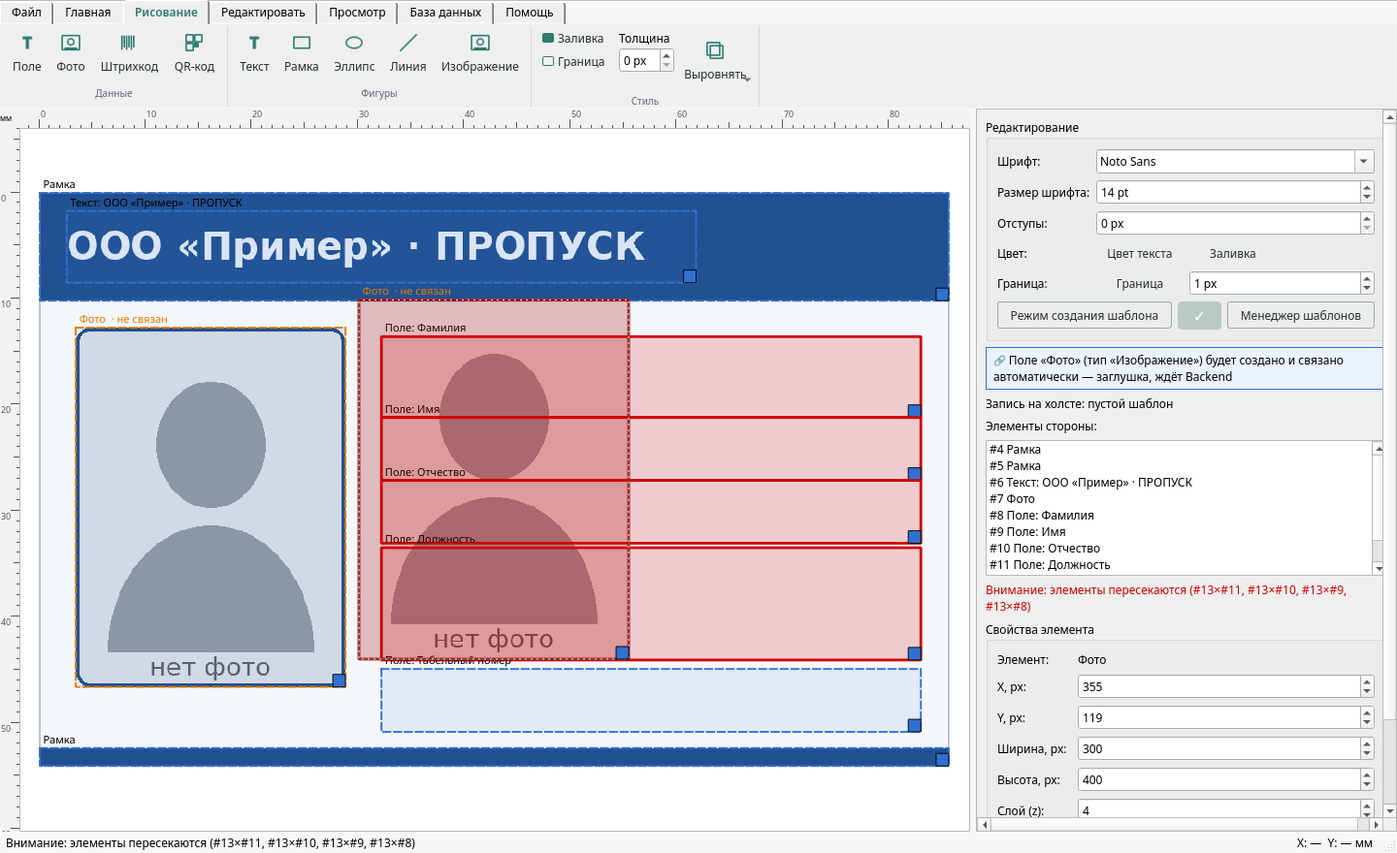
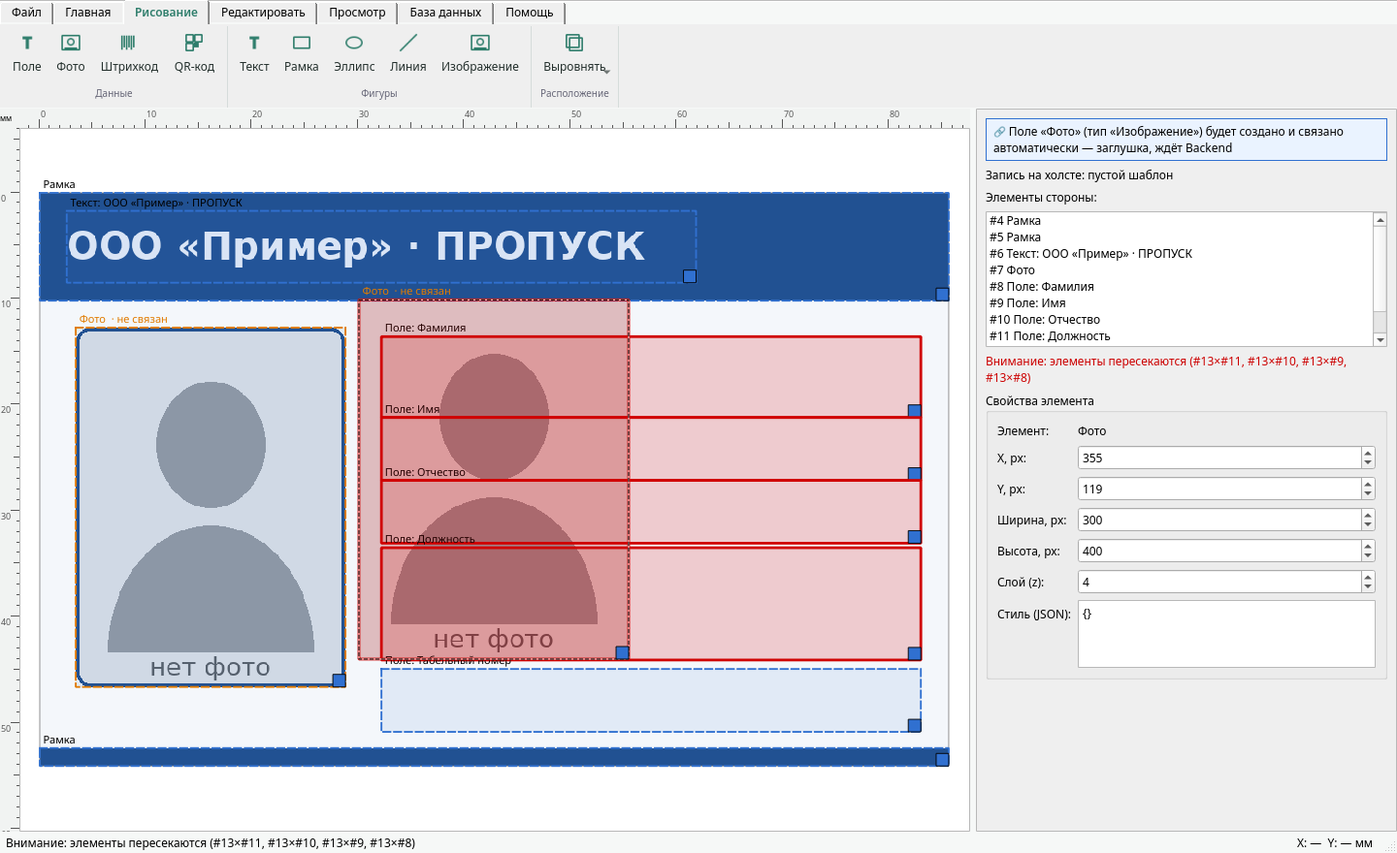
stage 15 step 2: Редактировать ribbon in one row (fits 1024 px), «Связать поле» creates object (stub), photo editor mock values into sliders, field manager status, s15 screens

diff --git a/ui/stage15.py b/ui/stage15.py
@@ -5,10 +5,8 @@
 использовались до этапа 15 (set_prop панели свойств редактора).
 """
 from PyQt6.QtCore import Qt
-from PyQt6.QtGui import QColor, QAction
-from PyQt6.QtWidgets import (QWidget, QGroupBox, QFormLayout, QHBoxLayout, QVBoxLayout, QFontComboBox, QSpinBox,
-                             QPushButton, QToolButton, QLabel, QDialog, QListWidget, QListWidgetItem, QMessageBox,
-                             QColorDialog)
+from PyQt6.QtWidgets import (QHBoxLayout, QVBoxLayout, QPushButton, QLabel, QDialog, QListWidget, QListWidgetItem,
+                             QMessageBox)
 
 UNLINKED_COLOR = "#E07A00"      # рамка объекта шаблона «не связан» (после «Отвязать поле»)
 LINKED_COLOR = "#3070d0"        # обычная рамка (как в layout_editor.ElementItem)
@@ -34,67 +32,28 @@ def _set_btn_color(b, c):
     b.color = c; b.setStyleSheet(f"QToolButton{{border:1px solid #888; border-left:14px solid {c}; padding:2px 6px;}}" if c else "")
 
 
-class FormatPanel(QGroupBox):
-    """П.2: панель «Редактирование» — шрифт, размер, отступы, цвет текста, заливка, цвет/толщина границы;
-    «Режим шаблона» (ручная расстановка элементов), «✓» — сохранить шаблон, «Менеджер шаблонов»."""
+class TemplateTools:
+    """П.2: «Режим шаблона» / «✓ Сохранить шаблон» / «Менеджер шаблонов» — слоты QAction ленты «Редактировать»."""
 
-    def __init__(self, editor=None, parent=None):
-        super().__init__("Редактирование", parent); self.editor = editor
-        self.font = QFontComboBox(); self.font.setToolTip("TODO stage15: ключ стиля font_family — ждёт Backend (рендер)")
-        self.size = QSpinBox(); self.size.setRange(4, 200); self.size.setValue(14); self.size.setSuffix(" pt")
-        self.padding = QSpinBox(); self.padding.setRange(0, 200); self.padding.setSuffix(" px")
-        self.padding.setToolTip("TODO stage15: ключ стиля padding — ждёт Backend (рендер)")
-        self.text_color, self.fill, self.border = _color_btn("Цвет текста"), _color_btn("Заливка"), _color_btn("Граница")
-        self.border_w = QSpinBox(); self.border_w.setRange(0, 100); self.border_w.setValue(1); self.border_w.setSuffix(" px")
-        f = QFormLayout(); f.addRow("Шрифт:", self.font); f.addRow("Размер шрифта:", self.size); f.addRow("Отступы:", self.padding)
-        colors = QHBoxLayout(); [colors.addWidget(b) for b in (self.text_color, self.fill)]
-        f.addRow("Цвет:", colors)
-        brow = QHBoxLayout(); brow.addWidget(self.border); brow.addWidget(self.border_w); f.addRow("Граница:", brow)
-        # кнопки панели — QToolButton на собственных QAction (правило: одно действие = один QAction, одно место)
-        self.act_mode = QAction("Режим создания шаблона", self); self.act_mode.setObjectName("act_template_mode"); self.act_mode.setCheckable(True)
-        self.act_save = QAction("✓", self); self.act_save.setObjectName("act_template_save"); self.act_save.setToolTip("Сохранить шаблон")
-        self.act_manager = QAction("Менеджер шаблонов", self); self.act_manager.setObjectName("act_template_manager")
-        self.b_mode, self.b_save, self.b_manager = (QToolButton() for _ in range(3))
-        for b, a in ((self.b_mode, self.act_mode), (self.b_save, self.act_save), (self.b_manager, self.act_manager)):
-            b.setDefaultAction(a); b.setToolButtonStyle(Qt.ToolButtonStyle.ToolButtonTextOnly)
-        self.b_mode.setStyleSheet("QToolButton{border:1px solid #9AA; border-radius:3px; padding:3px 8px;} QToolButton:checked{background:#2E7D6B; color:white;}")
-        self.b_manager.setStyleSheet("QToolButton{border:1px solid #9AA; border-radius:3px; padding:3px 8px;}")
-        self.b_save.setStyleSheet("QToolButton{font-size:16px; font-weight:bold; color:white; background:#2E7D6B;"
-                                  " border-radius:4px; padding:2px 10px;} QToolButton:disabled{background:#B9C9C4;}")
-        row = QHBoxLayout(); row.addWidget(self.b_mode, 1); row.addWidget(self.b_save); row.addWidget(self.b_manager)
-        self.mode_hint = QLabel("Режим шаблона: расставьте элементы на карточке вручную и выберите поля; сохранение — «✓».")
-        self.mode_hint.setWordWrap(True); self.mode_hint.setStyleSheet("color:#2E7D6B; font-weight:600;")
-        lay = QVBoxLayout(self); lay.addLayout(f); lay.addLayout(row); lay.addWidget(self.mode_hint)
-        self.set_template_mode(False)
-        self.act_mode.toggled.connect(self.set_template_mode)
-        self.act_save.triggered.connect(lambda *_: self.save_template()); self.act_manager.triggered.connect(lambda *_: self.open_manager())
-        for b, key in ((self.text_color, "color"), (self.fill, "fill"), (self.border, "stroke")):
-            b.clicked.connect(lambda _=False, b=b, key=key: self.pick(b, key))
-        self.size.valueChanged.connect(lambda v: self._apply("font_size", v))
-        self.border_w.valueChanged.connect(lambda v: self._apply("stroke_width", v))
+    def __init__(self, parent, editor=None):
+        self.parent, self.editor, self.template_mode, self.act_mode, self.act_save = parent, editor, False, None, None
 
-    def _apply(self, key, value):
-        """Применение через существующий путь панели свойств редактора (set_prop); без нового API."""
-        ed = self.editor
-        if ed is None or ed.current is None: return False
-        if key == "font_size": ed.p_font.setValue(int(value)); return ed.apply_props()
-        return ed.set_prop(key, value)
-
-    def pick(self, b, key, color=None):
-        c = color or QColorDialog.getColor(QColor(b.color or "#000000"), self, b.text()).name()
-        _set_btn_color(b, c); self._apply(key, c); return c
+    def bind(self, act_mode, act_save):
+        self.act_mode, self.act_save = act_mode, act_save; self.set_template_mode(False)
 
     def set_template_mode(self, on):
-        self.template_mode = bool(on); self.act_save.setEnabled(self.template_mode); self.mode_hint.setVisible(self.template_mode)
-        if self.act_mode.isChecked() != self.template_mode: self.act_mode.setChecked(self.template_mode)
-        if self.editor is not None and hasattr(self.editor, "set_template_mode_banner"): self.editor.set_template_mode_banner(self.template_mode)
+        self.template_mode = bool(on)
+        pass  # «Сохранить шаблон» всегда доступна (контракт self-test: все действия ленты доступны)
+        if self.act_mode is not None and self.act_mode.isChecked() != self.template_mode: self.act_mode.setChecked(self.template_mode)
+        if self.editor is not None: self.editor.set_template_mode_banner(self.template_mode)
+        return self.template_mode
 
     def save_template(self):
         # TODO stage15: сохранение шаблона — Backend (save_template / templates) ещё нет
-        return stub_message(self, "Сохранить шаблон", STUB)
+        return stub_message(self.parent, "Сохранить шаблон", STUB)
 
     def open_manager(self, exec_=True):
-        d = TemplateManagerDialog(self)
+        d = TemplateManagerDialog(self.parent)
         if exec_: d.exec()
         return d
 

diff --git a/ui/main_window.py b/ui/main_window.py
@@ -12,6 +12,7 @@ from .layout_editor import LayoutEditor
 from .main_view import (PreviewPanel, PrintQueueDialog, PositionDialog, SettingsDialog, FieldManager, ALIGN,
                         aligned_geometry)
 from .ribbon import Ribbon, glyph
+from . import stage15
 from .dialogs import ImportDialog, ExportDialog, confirm_missing_photos, run_snapshot_job, describe_result, show_result_warnings
 from .backend_api import print_snapshot
 
@@ -65,6 +66,24 @@ class StrokeWidthAction(QWidgetAction):
 
     @property
     def spin(self): return self.spins[0]
+
+
+class FieldWidgetAction(QWidgetAction):
+    """Этап 15: поле ленты «Редактировать» (шрифт / размер / отступы): подпись + виджет, создаётся для каждого контейнера."""
+
+    def __init__(self, parent, name, text, factory, on_change, tip=None):
+        super().__init__(parent); self.setObjectName(name); self.setText(text)
+        self.factory, self.on_change, self.tip, self.widgets = factory, on_change, tip, []
+
+    def createWidget(self, parent):
+        w = QWidget(parent); h = QVBoxLayout(w); h.setContentsMargins(2, 4, 2, 0); h.setSpacing(1)
+        e = self.factory(); e.setToolTip(self.tip or self.text()); self.on_change(e)
+        h.addWidget(QLabel(self.text())); h.addWidget(e); h.addStretch(1)
+        self.widgets.append(e); w.destroyed.connect(lambda *_, e=e: self.widgets.remove(e) if e in self.widgets else None)
+        return w
+
+    @property
+    def widget(self): return self.widgets[0]
 
 
 class MainWindow(QMainWindow):
@@ -160,7 +179,27 @@ class MainWindow(QMainWindow):
             sub = QAction(t, self); sub.setObjectName(f"act_align_{how}"); sub.triggered.connect(lambda _=False, h=how: self.align(h))
             self.align_menu.addAction(sub); self.align_actions[how] = sub
         self.act_align.setMenu(self.align_menu)
-        # Редактировать
+        # Редактировать — этап 15: форматирование и шаблон в одну горизонтальную строку групп
+        from PyQt6.QtWidgets import QFontComboBox
+        def _font():
+            f = QFontComboBox(); f.setMaximumWidth(150); return f
+        def _spin(lo, hi, v, suf):
+            def mk():
+                sp = QSpinBox(); sp.setRange(lo, hi); sp.setValue(v); sp.setSuffix(suf); return sp
+            return mk
+        # TODO stage15: font_family / padding — ключей стиля пока нет в рендере Backend (только UI)
+        self.act_font = FieldWidgetAction(self, "act_font", "Шрифт", _font, lambda e: None, "Шрифт (TODO stage15: ждёт Backend)")
+        self.act_font_size = FieldWidgetAction(self, "act_font_size", "Размер", _spin(4, 200, 14, " pt"),
+            lambda e: e.editingFinished.connect(lambda e=e: le.current and (le.p_font.setValue(e.value()), le.apply_props())))
+        self.act_padding = FieldWidgetAction(self, "act_padding", "Отступы", _spin(0, 200, 0, " px"), lambda e: None,
+                                             "Отступы (TODO stage15: ждёт Backend)")
+        self.act_text_color = A("act_text_color", "Цвет текста…", lambda: self.pick_color("color"), "text", icon_text="Цвет\nтекста")
+        fp = stage15.TemplateTools(self, le)
+        self.act_template_mode = A("act_template_mode", "Режим шаблона", fp.set_template_mode, "edit_card", checkable=True,
+                                   icon_text="Режим\nшаблона", tip="Режим создания шаблона: элементы расставляются вручную")
+        self.act_template_save = A("act_template_save", "✓ Сохранить шаблон", fp.save_template, "printed", icon_text="✓ Сохранить\nшаблон")
+        self.act_template_manager = A("act_template_manager", "Менеджер шаблонов…", fp.open_manager, "table", icon_text="Менеджер\nшаблонов")
+        fp.bind(self.act_template_mode, self.act_template_save); self.template_tools = fp
         self.act_undo = A("act_undo", "Отменить", self.undo, "undo", "Ctrl+Z")
         self.act_redo = A("act_redo", "Повторить", self.redo, "redo", ["Ctrl+Y", "Ctrl+Shift+Z"])
         self.act_delete_element = A("act_delete_element", "Удалить объект", self.delete_element, "delete", "Del", icon_text="Удалить")
@@ -227,10 +266,14 @@ class MainWindow(QMainWindow):
         R.add_group("Главная", "Сторона", [self.act_side, self.act_background])
         R.add_group("Рисование", "Данные", [T["field"], T["photo"], T["barcode"], T["qr"]])
         R.add_group("Рисование", "Фигуры", [T["text"], T["rect"], T["ellipse"], T["line"], T["image"]])
-        R.add_group("Рисование", "Стиль", [[self.act_style_fill, self.act_style_stroke], self.act_style_stroke_w, self.act_align])
-        R.add_group("Редактировать", "История", [self.act_undo, self.act_redo])
-        R.add_group("Редактировать", "Объект", [self.act_delete_element, self.act_position])
-        R.add_group("Редактировать", "Порядок", [self.act_z_up, self.act_z_down])
+        R.add_group("Рисование", "Расположение", [self.act_align])
+        R.add_group("Редактировать", "Шрифт", [self.act_font, self.act_font_size])
+        R.add_group("Редактировать", "Отступы", [self.act_padding])
+        R.add_group("Редактировать", "Цвет", [[self.act_text_color, self.act_style_fill]])
+        R.add_group("Редактировать", "Граница", [self.act_style_stroke, self.act_style_stroke_w])
+        R.add_group("Редактировать", "Шаблон", [[self.act_template_mode, self.act_template_save, self.act_template_manager]])
+        R.add_group("Редактировать", "История", [[self.act_undo, self.act_redo]])
+        R.add_group("Редактировать", "Объект", [[self.act_delete_element, self.act_position], [self.act_z_up, self.act_z_down]])  # порядок слоёв — в группе «Объект» (вписывается в 1024 px)
         R.add_group("Просмотр", "Масштаб", [self.act_zoom_in, self.act_zoom_out, self.act_zoom_fit])
         R.add_group("Просмотр", "Показать", [self.act_grid, self.act_rulers, self.act_show_render])
         R.add_group("Просмотр", "Окно", [self.act_reset_layout])

diff --git a/ui/photo_editor.py b/ui/photo_editor.py
@@ -115,14 +115,12 @@ class PhotoEditor(QDialog):
         except LookupError as e: self.src, self.load_error = None, str(e)
         except ValueError as e: self.src, self.load_error = None, f"Не удалось открыть фото: {e}"
         self.img = self.src
-        grid = QGridLayout(); self.sl, self.sp, self.applied_labels, self.applied = {}, {}, {}, {}
+        grid = QGridLayout(); self.sl, self.sp = {}, {}
         for i, (k, lab, lo, hi, suf) in enumerate(self.SLIDERS):
             s = QSlider(Qt.Orientation.Horizontal); s.setRange(lo, hi); sp = QSpinBox(); sp.setRange(lo, hi); sp.setSuffix(suf)
             s.valueChanged.connect(sp.setValue); sp.valueChanged.connect(s.setValue); sp.valueChanged.connect(lambda *_: self._timer.start())
             grid.addWidget(QLabel(lab), i, 0, Qt.AlignmentFlag.AlignRight); grid.addWidget(s, i, 1); grid.addWidget(sp, i, 2)
-            al = QLabel(); al.setStyleSheet("color:#2E7D6B; font-weight:600;"); al.setMinimumWidth(110); grid.addWidget(al, i, 3)
-            sp.valueChanged.connect(lambda *_, k=k: self._clear_applied(k))
-            self.sl[k], self.sp[k] = s, sp; self.applied_labels[k] = al
+            self.sl[k], self.sp[k] = s, sp
         self.portrait, self.autoeffect = QCheckBox("Портрет"), QCheckBox("Автоэффект")
         self.portrait.setToolTip("Рамка по лицу (поиск лица — Backend)"); self.portrait.toggled.connect(lambda on: on and self.find_face())
         self.autoeffect.toggled.connect(lambda *_: self._timer.start())
@@ -156,28 +154,14 @@ class PhotoEditor(QDialog):
         self.load_defaults(preview=False); self.update_preview(); self.reset_frame()
         if self.portrait.isChecked() and self.aspect is not None: self.find_face()      # D41: «Портрет» из умолчаний → рамка по лицу сразу
 
-    # ---- этап 15 п.6: ползунки показывают значения, применённые «Портретом» / «Автоэффектом» ----
-    # TODO stage15: МАКЕТ. Значения — заглушка MOCK_APPLIED; реальные значения должен вернуть Backend
-    # (apply_photo_edit / detect_face_crop не сообщают их). Ручные значения (поле справа, params) не меняются.
+    # ---- этап 15 п.6: «Портрет» / «Автоэффект» записывают применённые значения прямо в ползунок и поле ----
+    # TODO stage15: МАКЕТ. Значения — заглушка MOCK_APPLIED; реальные значения вернёт Backend позже.
     MOCK_APPLIED = {"autoeffect": {"brightness": 12, "contrast": 18}, "portrait": {"scale": 135, "rotate": 0}}
 
     def show_applied(self, mode, on):
-        for k, v in self.MOCK_APPLIED[mode].items():
-            if on: self.applied[k] = (mode, v)
-            elif self.applied.get(k, (None,))[0] == mode: self.applied.pop(k)
-        for k in self.sl:
-            s = self.sl[k]; s.blockSignals(True)
-            if k in self.applied:
-                mode_, v = self.applied[k]; s.setValue(v)
-                self.applied_labels[k].setText(f"{'Автоэффект' if mode_ == 'autoeffect' else 'Портрет'}: {v:+d}" if k != "scale"
-                                               else f"Портрет: {v} %")
-            else:
-                s.setValue(self.sp[k].value()); self.applied_labels[k].setText("")
-            s.blockSignals(False)
-        return dict(self.applied)
-
-    def _clear_applied(self, k):
-        self.applied.pop(k, None); self.applied_labels[k].setText("")
+        if not on or getattr(self, "_setting_params", False): return {}
+        for k, v in self.MOCK_APPLIED[mode].items(): self.sp[k].setValue(v)      # ползунок синхронизируется сигналом
+        return dict(self.MOCK_APPLIED[mode])
 
     # ---- параметры ----
     def params(self, crop=True):
@@ -187,6 +171,11 @@ class PhotoEditor(QDialog):
         return p
 
     def set_params(self, p):
+        self._setting_params = True     # умолчания/загрузка: галочки не перезаписывают значения (этап 15)
+        try: self._set_params(p)
+        finally: self._setting_params = False
+
+    def _set_params(self, p):
         for k, *_ in self.SLIDERS: self.sp[k].setValue(int(p.get(k, PHOTO_EDIT_DEFAULTS[k])))
         self.autoeffect.setChecked(bool(p.get("autoeffect")))
         self.portrait.blockSignals(True); self.portrait.setChecked(bool(p.get("portrait"))); self.portrait.blockSignals(False)

diff --git a/ui/main_view.py b/ui/main_view.py
@@ -285,9 +285,9 @@ class FieldManager(QDialog):
         if ok:   # подсказка UI; окончательное правило — link_field (ValueError показывается как есть)
             is_img = field_type(self._field(self.selected_field())) == "image"
             ok = (e["type"] == "photo") == is_img
-        self.b_link.setEnabled(bool(ok))
+        self.b_link.setEnabled(bool(ok) or (fld and e is None))   # этап 15 п.3: без объекта — объект создаётся при связывании
         if hasattr(self, "status"):   # этап 15 п.3 (макет): без объекта на макете — подсказка; создание объекта ждёт Backend
-            self.status.setText("Объект на макете не выбран: при связывании он будет создан (заглушка, ждёт Backend)" if fld and e is None else "")
+            self.status.setText("")
         self.b_unlink.setEnabled(e is not None and bool(e.get("field_name")))
 
     def _edited(self, item, col):
@@ -303,8 +303,7 @@ class FieldManager(QDialog):
         eid = self.selected_element(); field_name = field_name or self.selected_field()
         if eid is None and field_name is not None:
             # этап 15 п.3: объекта нет → он будет создан при связывании. TODO stage15: Backend (создание + link_field)
-            lab = (self._field(field_name) or {}).get("label") or field_name
-            self.status.setText(f"Объект для поля «{lab}» будет создан на шаблоне при связывании — заглушка, ждёт Backend")
+            self.status.setText("Создан объект в шаблоне")      # TODO stage15: заглушка — объект создаст Backend
             return False
         if eid is None or field_name is None: return False
         try:
@@ -314,13 +313,13 @@ class FieldManager(QDialog):
             if field_manager_hook is not None: field_manager_hook("error", self.last_error)
             else: QMessageBox.warning(self, "Связать поле", self.last_error)
             return False
-        self.reload(); return r
+        self.reload(); self.status.setText("Объект привязан"); return r
 
     def unlink(self):
         eid = self.selected_element()
         if eid is None: return False
         r = self.api.unlink_field(eid); self.reload()
-        self.status.setText("Объект отвязан — на шаблоне отмечен цветом «не связан»")     # этап 15 п.3
+        self.status.setText("Объект отвязан")     # этап 15 п.3
         le = getattr(self.parent(), "layout_editor", None)
         if le is not None: le.reload()
         return r

diff --git a/ui/smoke_test.py b/ui/smoke_test.py
@@ -439,7 +439,8 @@ acts = w.all_actions()
 texts = [a.text() for a in acts]; names = [a.objectName() for a in acts]
 assert len(texts) == len(set(texts)), [t for t in texts if texts.count(t) > 1]
 assert len(names) == len(set(names)) and all(n.startswith("act_") for n in names), names
-assert len(acts) - (len(w.display_actions) - 1) == 57, len(acts)       # 57 действий (act_capture удалён, D22) (Дисплей — одна группа из 3)
+assert len(acts) - (len(w.display_actions) - 1) == 64, len(acts)       # этап 15: +7 (шрифт, размер, отступы, цвет текста, режим/сохранить/менеджер шаблонов)
+# было: 57       # 57 действий (act_capture удалён, D22) (Дисплей — одна группа из 3)
 from PyQt6.QtWidgets import QToolButton
 assert w.records.filter.apply_button.isVisible() or True
 btn_count = {}
@@ -447,6 +448,7 @@ for b in w.ribbon.findChildren(QToolButton):
     if b.defaultAction() in w.ribbon.places: btn_count[b.defaultAction()] = btn_count.get(b.defaultAction(), 0) + 1
 btn_count[w.act_filter_apply] = int(w.records.filter.apply_button.defaultAction() is w.act_filter_apply)
 btn_count[w.act_style_stroke_w] = 1                              # QWidgetAction (поле толщины)
+for _wa in (w.act_font, w.act_font_size, w.act_padding): btn_count[_wa] = 1   # этап 15: QWidgetAction ленты «Редактировать»
 assert all(btn_count.get(a) == 1 for a in acts), [a.text() for a in acts if btn_count.get(a) != 1]
 try: w.ribbon.add_group("Помощь", "Повтор", [w.act_about]); dup = False
 except ValueError: dup = True
@@ -632,7 +634,7 @@ top = [fm.tree.topLevelItem(i) for i in range(fm.tree.topLevelItemCount())]
 assert all(t.childCount() == 0 for t in top) and not any(t.text(0) == "Не связаны" for t in top)      # плоский список
 assert not any(t.text(0).startswith("~") for t in top)
 it = next(t for t in top if t.data(0, Qt.ItemDataRole.UserRole) == ("field", fld)); assert not it.icon(0).isNull()
-fm.tree.setCurrentItem(it); fm.set_element(None); assert not fm.b_link.isEnabled() and not fm.b_unlink.isEnabled()
+fm.tree.setCurrentItem(it); fm.set_element(None); assert fm.b_link.isEnabled() and not fm.b_unlink.isEnabled()   # этап 15: без объекта — «Связать» создаёт объект (Архитектор)
 eid_l = links[fld][0]["element_id"]; fm.set_element(eid_l)
 assert fm.b_unlink.isEnabled(); fm.unlink(); e_ = next(e for e in api.list_elements() if e["id"] == eid_l)
 assert not e_.get("field_name") and e_["type"] == "text"          # Backend: field → text

diff --git a/ui/layout_editor.py b/ui/layout_editor.py
@@ -14,7 +14,7 @@ from PyQt6.QtWidgets import (QWidget, QHBoxLayout, QVBoxLayout, QGraphicsView, Q
                              QFormLayout, QLabel, QComboBox, QPushButton, QSpinBox, QLineEdit,
                              QPlainTextEdit, QMessageBox, QCheckBox, QToolButton, QGridLayout,
                              QInputDialog, QFileDialog, QColorDialog, QScrollArea, QSizePolicy, QListWidget, QListWidgetItem)
-from .stage15 import FormatPanel, UNLINKED_COLOR, PHOTO_FIELD_LABEL, PHOTO_FIELD_TYPE
+from .stage15 import UNLINKED_COLOR, PHOTO_FIELD_LABEL, PHOTO_FIELD_TYPE
 from .backend_api import BackendAPI, CARD_W_PX, CARD_H_PX, TYPE_NAMES, SIDE_NAMES, person_caption
 
 SIDE_LABELS = SIDE_NAMES
@@ -216,13 +216,12 @@ class LayoutEditor(QWidget):
         self.props = props; props.setEnabled(False)
 
         right = QVBoxLayout()
-        self.format_panel = FormatPanel(self)            # этап 15 п.2
-        self.mode_banner = QLabel("Режим создания шаблона"); self.mode_banner.setStyleSheet(
+        self.mode_banner = QLabel("Режим создания шаблона: расставьте элементы на карточке вручную и выберите поля; сохранение — «✓ Сохранить шаблон» на ленте"); self.mode_banner.setStyleSheet(
             "background:#2E7D6B; color:white; font-weight:600; padding:3px 8px;"); self.mode_banner.hide()
         # этап 15 п.1: индикатор связи фото-объекта с полем «Фото» (Изображение)
         self.photo_link = QLabel(); self.photo_link.setWordWrap(True); self.photo_link.hide()
         self.photo_link.setStyleSheet("background:#EAF3FF; border:1px solid #3070d0; padding:4px;")
-        right.addWidget(self.format_panel); right.addWidget(self.photo_link)
+        right.addWidget(self.photo_link)
         right.addWidget(self.person_label)
         # Список элементов — только для выбора (перекрытые объекты); своих кнопок нет,
         # контекстное меню строит главное окно на тех же QAction ленты.

diff --git a/ui/qa_click_all.py b/ui/qa_click_all.py
@@ -181,6 +181,7 @@ def scenario(tmp, chk, out, EXC):
                 fr = d.frame.rect(); res["portrait"] = (d.portrait.isChecked() and abs(fr.width() / fr.height() - d.aspect) < 0.02) \
                     or "Лицо не найдено" in d.status.text()
                 d.autoeffect.setChecked(True); spin(100); res["auto"] = d.params()["autoeffect"] is True
+                d.sl["brightness"].setValue(25); spin(20)   # этап 15: автоэффект пишет MOCK-значения в ползунок; возвращаем 25 для проверки умолчаний
                 from PyQt6.QtCore import QRectF, QPointF
                 vp = QRectF(d.view.viewport().rect()); ok42 = []
                 for mv in (None, QPointF(-10000, -10000), QPointF(10000, 10000)):
